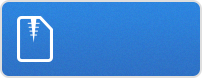
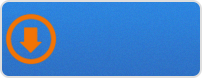
Updated documents and image

Changed region(s): [[0.0297, 0.1795, 0.297, 0.8462]]

diff --git a/index.html b/index.html
@@ -13,14 +13,19 @@
     <script src="//html5shiv.googlecode.com/svn/trunk/html5.js"></script>
     <![endif]-->
 
-    <title>ThumbFish by abhimanyusirohi</title>
+    <title>ThumbFish</title>
+      <style type="text/css">
+          .auto-style1
+          {
+              text-decoration: underline;
+          }
+      </style>
   </head>
 
   <body>
     <header>
       <div class="inner">
         <h1>ThumbFish</h1>
-        <h2>A simple utility for Chemists that integrates with Windows and provides molecule Thumbnail, Preview, Search and other useful features.</h2>
         <a href="https://github.com/abhimanyusirohi/ThumbFish" class="button"><small>View project on</small>GitHub</a>
       </div>
     </header>
@@ -28,15 +33,18 @@
     <div id="content-wrapper">
       <div class="inner clearfix">
         <section id="main-content">
-          <h1>
-<a name="about-thumbfish" class="anchor" href="#about-thumbfish"><span class="octicon octicon-link"></span></a>About ThumbFish</h1>
-
-<p>ThumbFish is a set of Windows Shell Extension handlers developed to help people working with the following chemical structure files:</p>
+            <div style="float:right">
+                <img src="images/logo.png" width="130" height="69" alt="ThumbFish" title="ThumbFish" />
+                </div>
+            
+            <h1><a name="about-thumbfish" class="anchor" href="#about-thumbfish"><span class="octicon octicon-link"></span></a>What is ThumbFish</h1>
+&nbsp;<p>ThumbFish is a simple utility for Chemists that integrates with Windows and provides molecule Thumbnail, Preview, Search and other useful features. It is a set of Windows Shell Extension handlers developed to help people working with the following chemical structure files:</p>
 
 <ul>
 <li><a href="http://en.wikipedia.org/wiki/Chemical_table_file#Molfile">MOL (MDL Molfile Format - V2000 and V3000)</a></li>
 <li>RXN (Reaction file - V2000 and V3000)
-<a href="http://en.wikipedia.org/wiki/Chemical_file_format#SMILES">SMILES (Simplified Molecular Input Line Entry Specification)</a>
+</li>
+    <li><a href="http://en.wikipedia.org/wiki/Chemical_file_format#SMILES">SMILES (Simplified Molecular Input Line Entry Specification)</a>
 </li>
 <li><a href="http://en.wikipedia.org/wiki/Smiles_arbitrary_target_specification">SMARTS (SMiles ARbitrary Target Specification)</a></li>
 <li><a href="http://en.wikipedia.org/wiki/Chemical_table_file#SDF">SDF (Structure Data File - V2000 and V3000)</a></li>
@@ -51,16 +59,103 @@
 <li>Shell Context-Menu Handler</li>
 </ul><p>For Bugs, suggestions or feedback, please email <a href="mailto:abhimanyusirohi@gmail.com">abhimanyusirohi@gmail.com</a></p>
 
+<h1><a name="about-thumbfish" class="anchor" href="#about-thumbfish"><span class="octicon octicon-link"></span></a>Using ThumbFish</h1>
+<p>
+    <h2>Thumbnail Handler</h2>Thumbnail handler displays thumbnail images in Windows Explorer for supported chemical 
+    formats. In case of SDF files, the thumbnail shows the first four structures to help 
+    users identify a particular SDF without opening the file in the associated program.<br />
+    
+            <br /><img src="images/Thumbnail.PNG" alt="Thumbnail" title="Thumbnail" style="border:dotted;border-width:thin"/><br />
+            <br /><img src="images/cml.PNG" alt="CML File" title="CML File" style="border:dotted;border-width:thin"/><br />
+&nbsp;<br />
+    <h2>Preview Handler</h2>Preview handler can be used to view common properties associated with a structure file. Preview shows properties such as 
+    Name, Formula, SMILES, InChI and many more. These properties can be copied to the clipboard using the &quot;Copy Properties&quot; option in the context-menu on the preview dialog. 
+            It copies all available properties to the clipboard in a Key:Value format. 
+            <br />
+            <span class="auto-style1">Note that no properties are displayed 
+    for multi-molecule files such as SDF.</span>
+            <br />
+            <br />
+            If you do not see previews in Windows Explorer then try the following: 
+            <ol>
+                <li>Enable Preview Handlers by checking the following option: [Windows Explorer Tools &gt;&gt; Folder Options &gt;&gt; View &gt;&gt;Show preview handlers in preview pane]</li>
+                <li>To Show/Hide preview pane: [Windows Explorer &gt;&gt; Organize (Extreme Left on toolbar) &gt;&gt; Layout &gt;&gt;Preview Pane]</li>
+            </ol>
+            <img src="images/preview.png" alt="Preview" title="Preview" style="border:dotted;border-width:thin"/><br />
+            Preview window provides a context-menu that has different useful options to Save and Copy structure and properties. 
+    <ul>
+        <li>Save Structure: Saves a structure to disk in different formats: PNG, PDF, SVG, EMF and CDXML.</li>
+        <li>Copy Properties: Copies the currently displayed structure properties to clipboard in Key:Value format</li>
+        <li>Copy Structure As: Copies the current structure to clipboard in different useful formats including MDL MOL and ChemDraw's CDXML</li>
+    </ul>
+            
+            <img src="images/preview-menu.png" alt="Preview Menu" title="Preview Menu" style="border:dotted;border-width:thin"/>
+            <br />
+            <br />
+            <h2>Search Handler</h2>IFilter search handlers are used by Windows Search Engine to index information inside proprietry files. This IFilter search handler indexes 
+    properties such as formula, atom count, mass etc inside supported files and returns them to the Windows Search Engine so that the user can search for structures with given 
+    properties. Normally, the search engine only searches for file names and not inside a file&#39;s contents but the search handler makes it possible to search by a molecule properties. 
+    For example if there are 100 structure files inside a folder then typing benzene will search for file names containing the word &#39;benzene&#39; and matching files will be 
+    returned. With a Search handler such as this one, a user can search for structures having atom count as 12 by typing na_12. 
+    <img src="images/search.png" alt="Search" title="Search" style="border:dotted;border-width:thin"/>
+
+    <h3>Setting Up Search</h3>
+    <ul>
+        <li>Make sure Windows Search is enabled in Control Panel [Control Panel &gt;&gt; Programs and Features &gt;&gt; Turn Windows Features on or off &gt;&gt; Windows Search]</li>
+        <li>Make sure that the folder in which you want to search is included for indexing [Control Panel &gt;&gt; Indexing Options] (your folder should be listed here)</li>
+    </ul>
+    
+    <h3>Troubleshooting Search</h3>
+    You can try the following steps if search is not working as expected.
+    <ul>
+        <li>Rebuild the search index in case it is corrupt or not built because of user activity: [Control Panel &gt;&gt; Indexing Options &gt;&gt; Advanced &gt;&gt; Rebuild]
+            Note that this can take some time besed on the number of files to index</li>
+        <li>Enable to always search a file&#39;s content [Explorer &gt;&gt; Folder Options &gt;&gt; Search &gt;&gt; What to Search &gt;&gt; Always search file name and contents]</li>
+        <li>Finally to always reindex and search: [Explorer >> Tools >> Options >> Search >> Don't use the index when searching in file folders...]</li>
+        <li>Still not working, check the ThumbFish Log for any error messages.</li>
+    </ul>
+    <h3>Search Examples</h3>
+    Note that a underscore &#39;_&#39; is used instead of an equals to &#39;=&#39; sign because an equals to sign is a word breaker. Properties are supplied to the 
+    search engine as a long string containing semicolons to separate different properties (&#39;formula_c6h6;na_12;name_benzene;&#39;). These properties are further 
+    split by the search engine to extract words that can be indexed so passing a &#39;na=12&#39; will store &#39;na&#39; and &#39;12&#39; because &#39;=&#39; is a word breaker. 
+    In order to make search such as &#39;na_12&#39; possible it should not contain any word breaker.The following property searches are possible: 
+    <ul>
+        <li>Name: name_{x} [e.g. n_benzene] Note that name is the structure name stored in the file</li>
+        <li>Formula: formula_{x} [e.g. formula_c6h6]</li>
+        <li>NumAtoms: na_{x} [e.g. na_12]</li>
+        <li>NumBonds: nb_{x} [e.g. nb_10]</li>
+        <li>Molecular Weight: mweight_{x} [e.g. mweight_207]</li>
+        <li>Implicit Hydrogens: impl_{x} [e.g. impl_4]</li>
+        <li>Heavy Atoms: heavya_{x} [e.g. heavya_2]</li>
+        <li>Most Abundant Mass: mamass_{x} [e.g. mamass_106]</li>
+        <li>Mono Isotopic Mass: mimass_{x} [e.g. mimass_210]</li>
+        <li>Chirality: chiral_{x} [e.g. chiral_yes]</li>
+        <li>Has Coordinates: hascoord_{x} [e.g. hascoord_yes]</li>
+        <li>Has Z Coordinates: haszcoord_{x} [e.g. haszcoord_no]</li>
+    </ul>
+
+    <h2>Context-Menu handler</h2>
+    ThumbFish context-menu is integrated into the Window Explorer context-menu and provides commands that work on single and multi molecule files. 
+    As of now the context-menu does not have any feature commands. It is there to let users know that the future versions of this product will add
+    commands to it.
+    <img src="images/ContextMenu.png" alt="Context Menu" title="Context Menu" style="border:dotted;border-width:thin"/>
+</p>
+
 <h1>
 <a name="known-limitations" class="anchor" href="#known-limitations"><span class="octicon octicon-link"></span></a>Known Limitations</h1>
 
 <ol>
-<li>Copying structure as Enhanced Metafile (EMF) Picture does not display atom labels.</li>
+    <li>Copying structure as Enhanced Metafile (EMF) Picture does not display atom labels.</li>
+    <li>When a structure is saved using the "Save Structure" command in Preview Handler then it can only be saved in user's AppData\LocalLow directory. 
+        This is because the Preview Handler runs in a low integrity mode under Windows and does not have access to other locations.</li>
+    <li>The Copy Structure As >> InChi Key command is NOT operational. The command has been intentionally disabled because of some problems associated with it.</li>
 </ol>
+            <h1>Supported OS</h1>
+            Windows Vista, 7 and 8 (both 32 and 64 bit)
         </section>
 
         <aside id="sidebar">
-          <a href="https://github.com/abhimanyusirohi/ThumbFish/zipball/master" class="button">
+          <a href="https://github.com/abhimanyusirohi/ThumbFish/master/Downloads/ThumbFishSetupx32.msi" class="button">
             <small>Download</small>
             .zip file
           </a>
@@ -74,8 +169,5 @@
           <p>This page was generated by <a href="https://pages.github.com">GitHub Pages</a> using the Architect theme by <a href="https://twitter.com/jasonlong">Jason Long</a>.</p>
         </aside>
       </div>
-    </div>
-
-  
   </body>
 </html>
